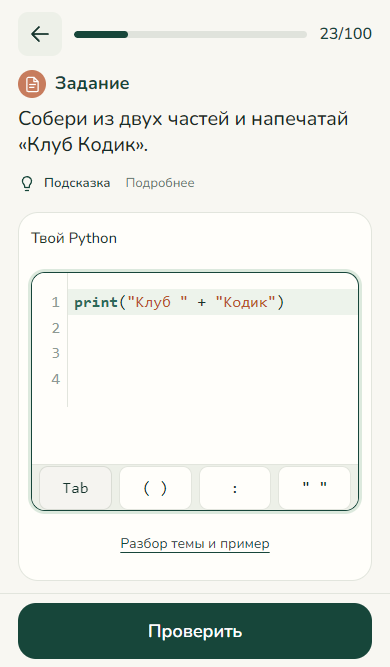
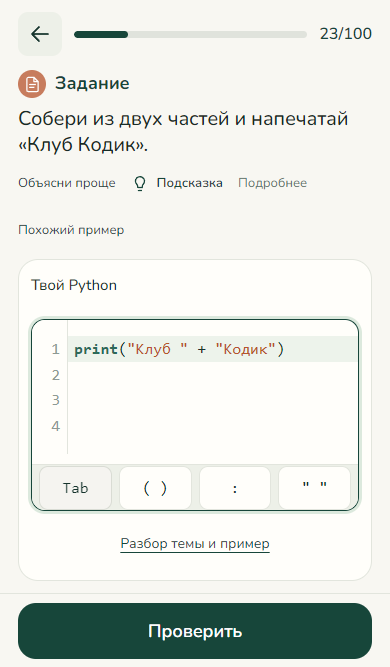
Record production audit verification and handoff

diff --git a/docs/WORK_CHECKPOINT.md b/docs/WORK_CHECKPOINT.md
@@ -1,11 +1,11 @@
-# Продолжение: полный программный аудит — 1 октября 2026
+# Точка продолжения — полный аудит завершён
 
-Проект D:/projects/pleducator; main; GitHub alexeykorolik/kodik; production https://kodiknew.vercel.app (ce50ab3 / код8444de0). Публикация разрешена пользователем.
+Проект D:/projects/pleducator. GitHub main https://github.com/alexeykorolik/kodik . Код d6764bc. Production https://kodiknew.vercel.app (Ready, https://kodiknew-h2qs895g0-zhoper.vercel.app).
 
-Текущий запрос: ВСЕ программные изменения аудита P0/P1/P2. Источник C:/Users/leha/.codex/attachments/200459a8-8774-40c6-9173-ce5cbeefdccd/Вставленный текст.txt. Прежний мобильный редизайн завершён; его не начинать заново.
+Пользователь подтвердил ВСЕ программные изменения P0/P1/P2 из аудита. Выполнены: адаптация23–100 guided→tokens→free безBlockly; индивидуальные навыки; AST/effect checker+скрытыепробы; безопасныйadvancedsummaryAI; corrective/review list/input/drawing; теориябезштрафа; progressskillsпервым; anonymouseventsSupabase; durableatomicAIbudget+signedcookie; codehighlight/accessory; cleanupCourse100/README; протокол10новичков/50–100пилота/физическихтелефонов.
 
-Незакоммичено: безопасный Python AST runtime с отслеживанием зависимостей результата, структурные ограничения вместо regex и скрытые пробы, точные навыки78упражнений, адаптация guided→tokens→free без Blockly, короткая практика новых навыков, бесплатная теория, приватный AI summary расширенного Python. 78эталонов и все варианты поддержки приняты smoke. Редактор получает подсветку и панель символов; сейчас доводится.
+Подробности docs/AUDIT_IMPLEMENTATION.md. Протокол docs/PILOT_PROTOCOL.md, пустой docs/pilot-results.csv, агрегаты supabase/pilot_report.sql. Миграция003 выполнена в настоящейSupabase.20конкурентныхclaims:8разрешены,12отклонены; anon не может читатьсобытия/вызыватьlimiter.
 
-Осталось: регрессии на обход проверки/адаптацию/AI; навыки главным экраном прогресса с сохранением истории и первых оценок; централизованные анонимные события Supabase+очередь; постоянный атомарный серверный лимитAI; удалить старый Course100; README/протокол реальных10новичков и физическихтелефонов; полная сборка/UI100/публикацияGitHubVercel/productionпроверки.
+Проверены: сборка, весьsmoke, все94UIсценария (91вобщемпрогоне+исправленный100-tasktest+2AIвключённыхотдельно),16productionUI,2настоящихGroqответа while/function,доставка событий избраузера/ackqueue/reload,DBидемпотентность/отсутствиеcode/email/message. Временные4deploymentпровижининга удалены, вproduction2APIфункции. СерверныеVercelключи нельзяскачать,невыводить. ProductionAIквоты8наурок/сутки,30/минIP,80/суткиlearner,200/суткиIP,1000/суткиglobal;clientreloadнесбрасываетлимит.
 
-Доступы: VercelCLI авторизован, .vercel/.env.production.local содержит Supabase server keys и POSTGRES_URL. Значения НЕ выводить; применять миграцию Node pg через --env-file. pg уже devdependency. Лимит должен failclosed при недоступной БД, AI fallback сохранён. Реальных новичков/телефонов не проверяли, результаты не выдумывать. Голосовойсеанс закончился, capture_screen_context не вызывать. Подагенты не разрешены.
+Текущий программный запрос завершён. Не начинать заново прежние100задач/мобильныйредизайн/Groq/audit. Реальныхновичков и физическихiPhone/Android не проверяли; следующая работа по новымзамечаниям или протоколутестирования. Голосовойсеанс закончился; capture_screen_context не использовать. Подагенты не запрошены.

diff --git a/docs/AUDIT_IMPLEMENTATION.md b/docs/AUDIT_IMPLEMENTATION.md
@@ -32,3 +32,11 @@
 ## Публикация
 
 Финальная публикация и production проверки фиксируются ниже после их выполнения.
+
+## Production подтверждено
+
+Код: GitHub main, коммит d6764bc. Vercel Ready: https://kodiknew-h2qs895g0-zhoper.vercel.app ; основной адрес https://kodiknew.vercel.app . После публикации16UI проверок на основном адресе прошли (41.1с): весь новый audit UX, возврат списка из практики/reload,3высоты,история/оценки/имя,собственная клавиатура и финальный рисунок;2AI UI сценария использовали контролируемые ответы. Отдельные настоящие обращения Groq для заданий50(while) и58(function/return) оба HTTP200 hint.
+
+Настоящие события production: отправлены и подтверждены в браузере; локальная очередь очищена по acknowledge, learnerID пережилreload, cookie HttpOnly/Secure установлен. Две одинаковые отправки одного UUID подтверждены; в БД ровно1строка, только attempt/passed/skillId, code/email/message отсутствуют. Исправлена обработка пустого201ответа PostgREST, дополнена регрессией. Доступ к проверочному старому deployment был через авторизованный CLI; токены в репозиторий не попали.
+
+Все4временных deployments с provisioning удалены. В production остались только /api/ai/tutor и /api/events. Точка продолжения сохранена; программный запрос завершён. Следующий этап — реальные участники и физические телефоны по протоколу.
